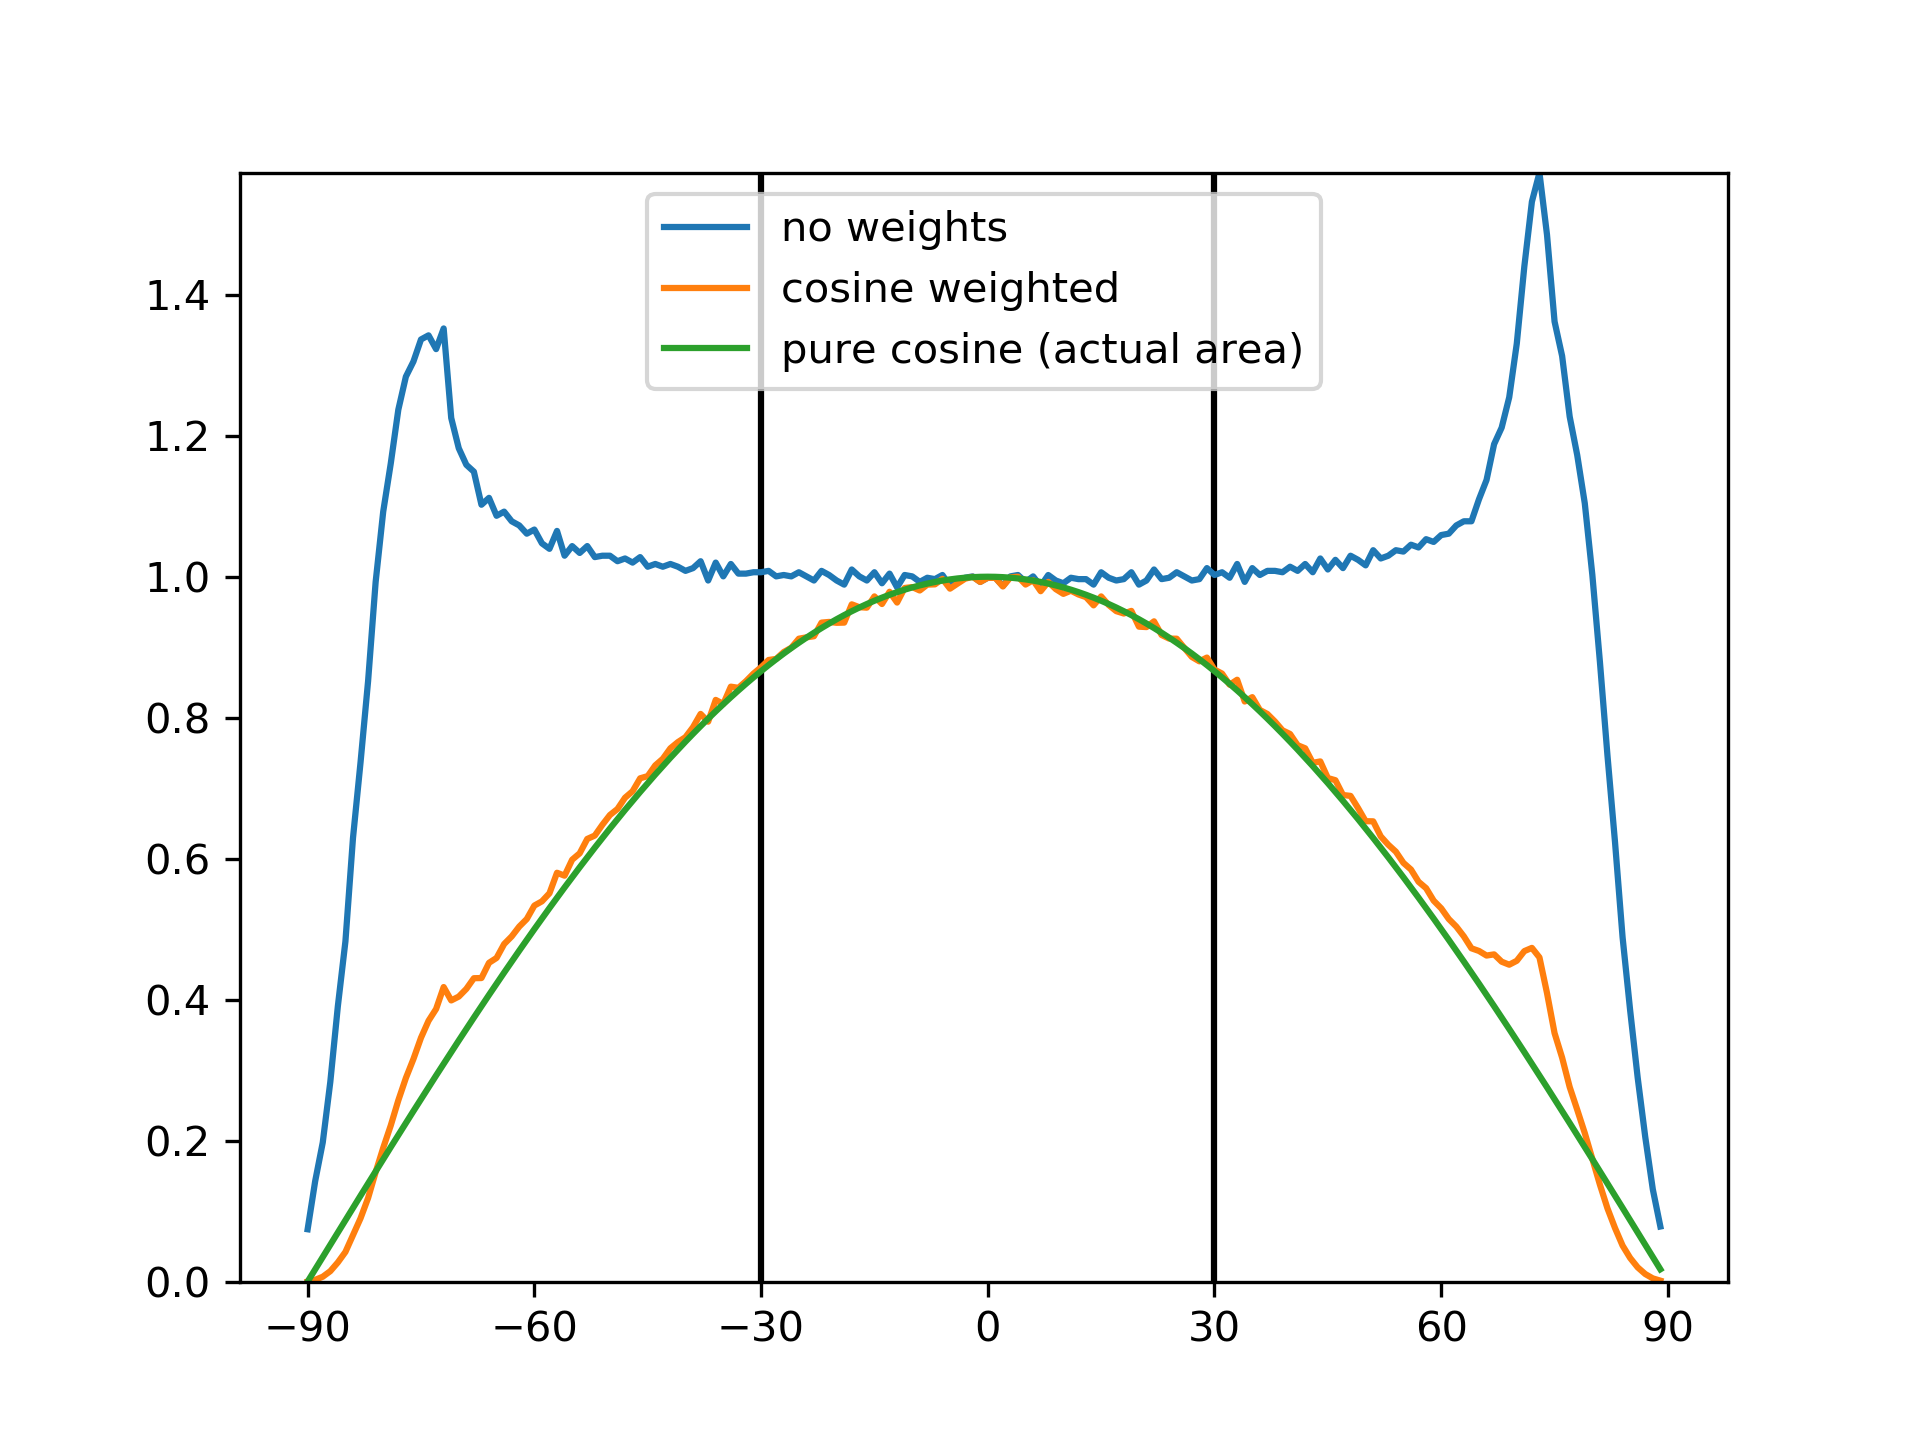
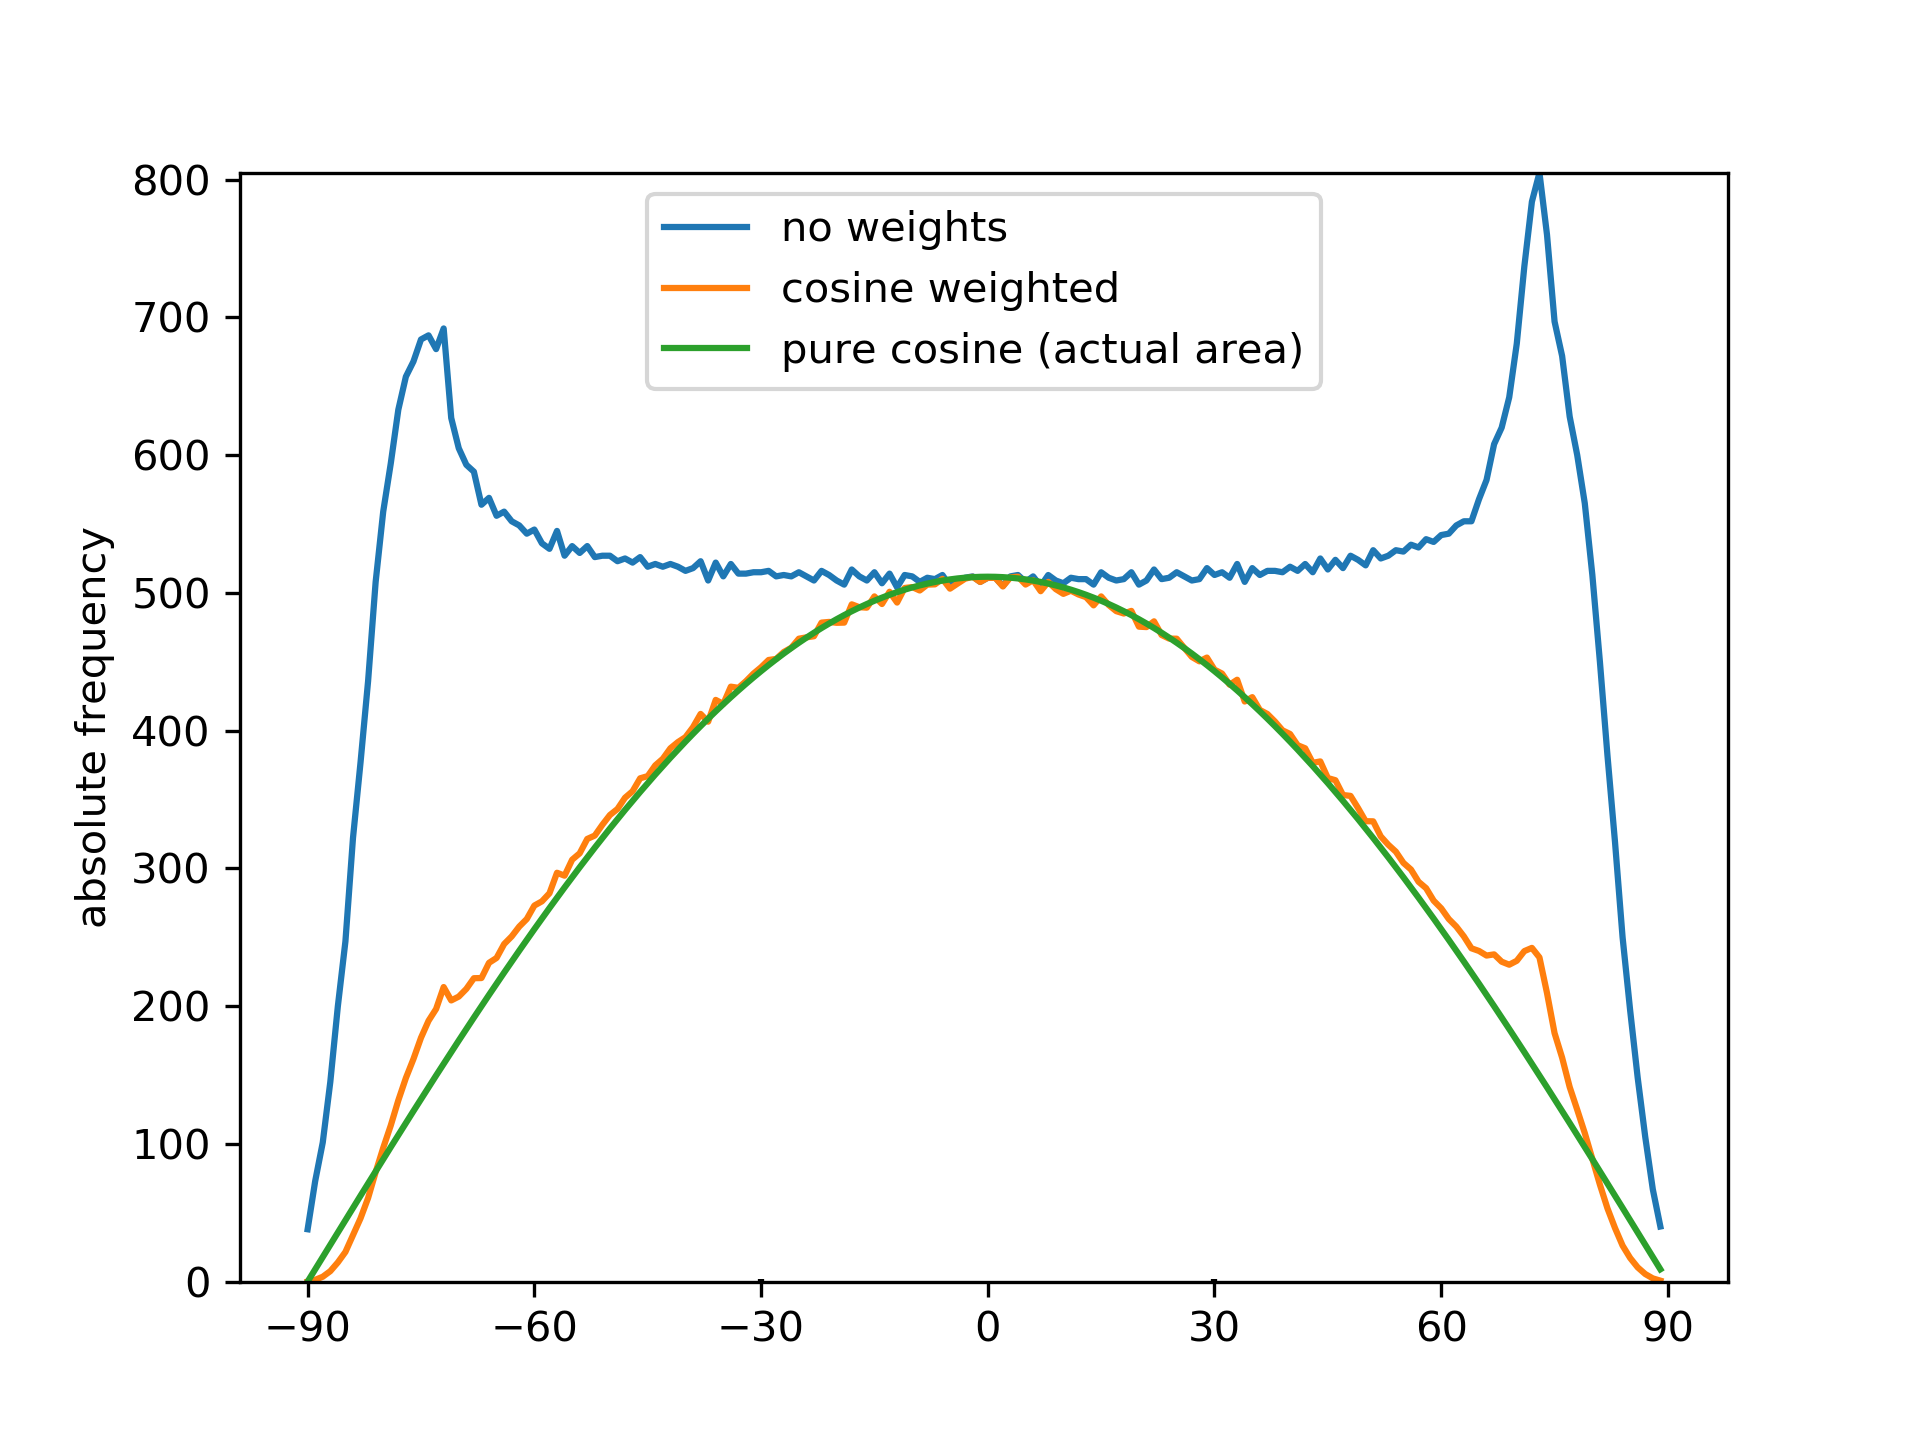
updated plots

diff --git a/weighting_factor.py b/weighting_factor.py
@@ -44,26 +44,31 @@ cos_weighted = raw[0]*np.cos(np.deg2rad(np.arange(-90, 90)))
 cos = np.cos(np.deg2rad(np.arange(-90, 90)))
 lats = np.arange(-90, 90)
 
-plt.plot(lats, raw[0]/cos_weighted.max(), label='no weights')
-plt.plot(lats, cos_weighted/cos_weighted.max(), label='cosine weighted')
-plt.plot(lats, cos,
+plt.plot(lats, raw[0], label='no weights')
+plt.plot(lats, cos_weighted, label='cosine weighted')
+plt.plot(lats, cos*cos_weighted.max(),
          label='pure cosine (actual area)')
 plt.vlines(-30, 0, raw[0].max()/cos_weighted.max())
 plt.vlines(30, 0, raw[0].max()/cos_weighted.max())
 plt.xticks(np.arange(-90, 92, 30))
-plt.ylim(0, raw[0].max()/cos_weighted.max())
+plt.ylabel('absolute frequency')
+plt.ylim(0, raw[0].max())
 plt.legend(loc='upper center')
+plt.savefig('weight_plot.png', dpi=300)
 
 plt.figure()
 factor = cos/(cos_weighted/cos_weighted[90])
 factor2 =  raw[0][90]/raw[0]
-plt.plot(lats, raw[0][90]/raw[0])
-plt.plot(lats, cos)
-plt.plot(lats, cos*raw[0][90]/raw[0])
+plt.plot(lats, raw[0][90]/raw[0], label='other')
+plt.plot(lats, cos*raw[0][90]/raw[0], label='total')
+plt.plot(lats, cos, label='cosine')
 #plt.scatter(lats, factor, s=8)
 plt.hlines(1, -90, 90)
+plt.ylabel('scaling factor')
 plt.xticks(np.arange(-90, 92, 30))
 plt.ylim(0,2)
+plt.legend()
+plt.savefig('weight_plot2.png', dpi=300)
 
 
 def get_scaling_factor(lat):
@@ -76,3 +81,4 @@ def get_scaling_factor(lat):
 weights = get_scaling_factor(lat)
 plt.figure()
 plt.hist(weights.flatten(), bins=1000)
+plt.savefig('weight_plot3.png', dpi=300)
